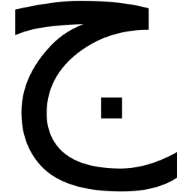
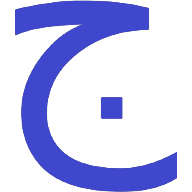
Modify images
* use blue rather than black

diff --git a/code/reader.js b/code/reader.js
@@ -441,11 +441,11 @@ function menuFn() {
           openSitePage(k, curPage)
       else switch (k) {
           case 'ARROWLEFT':
-            if (!evt.altKey && !evt.ctrlKey)
+            if (!evt.altKey && !evt.ctrlKey && !evt.metaKey)
               {gotoPage(curPage-1); evt.preventDefault()}
             break
           case 'ARROWRIGHT':
-            if (!evt.altKey && !evt.ctrlKey)
+            if (!evt.altKey && !evt.ctrlKey && !evt.metaKey)
               {gotoPage(curPage+1); evt.preventDefault()}
             break
           case 'T':
@@ -462,11 +462,29 @@ function menuFn() {
             toggleWords(); break
           default: return
       }
-}
+  }
   window.hideMenus = () => { 
       hideElement(menuC); hideElement(menuK); 
       hideElement(menuS); hideElement(bilgi)
       linkB.style.backgroundColor = ''
+  }
+  var prevTime
+  let timeString = (t, a, str) => t>a? (t/a).toFixed()+' '+str : ''
+  document.onvisibilitychange = () => {
+    if (document.hidden) {
+      prevTime = Date.now()/1000
+      console.log('Hiding')
+    } else if (prevTime) {
+      let dt = Date.now()/1000 - prevTime
+      let s = timeString(dt, 7*86400, 'weeks')
+           || timeString(dt, 86400, 'days')
+           || timeString(dt, 3600, 'hours')
+           || timeString(dt, 60, 'minutes')
+           || timeString(dt, 1, 'seconds')
+      console.log(dt.toFixed(), s+" since hiding");
+      if (dt > 86000 && localStorage.userName) //more than a day
+          readTabularData(setBookmarks, console.error)
+    }
   }
 
   html.oncontextmenu = (evt) => {

diff --git a/code/mujam.css b/code/mujam.css
@@ -166,19 +166,18 @@
 /*
 Icons made by <a href="https://www.flaticon.com/authors/kiranshastry" title="Kiranshastry">Kiranshastry</a> from <a href="https://www.flaticon.com/" title="Flaticon"> www.flaticon.com</a>
 */
-button {
-    background-size: contain;
-    background-repeat: no-repeat;
-}
 #ekleD {
     background-image: url(../image/add.png);
+    background-size: contain;
     border: none;
 }
 #editD {
     background-image: url(../image/edit.png);
+    background-size: contain;
     border: none;
 }
 #deleD {
-    background-image: url(../image/bin.png);
+    background-image: url(../image/del.png);
+    background-size: contain;
     border: none;
 }

diff --git a/mujam.html b/mujam.html
@@ -46,7 +46,7 @@
    <button id=ekleD onClick="showDialog('', 'Ekle', topicFromDialog)">&nbsp;
    </button>&nbsp;
    <button id=editD onClick="showDialog(menu4.value, 'Değiştir', replaceTopic)">&nbsp;
-   </button>
+   </button>&nbsp;
    <button id=deleD onClick="deleteTopic(menu4.value, 'confirm')">&nbsp;
    </button>&emsp;
    <!-- <button id=combin4 onClick="gotoHashRoot()">◀</button> -->
